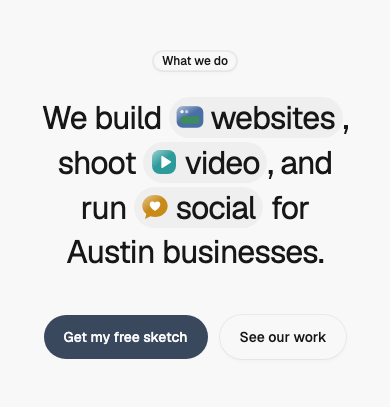
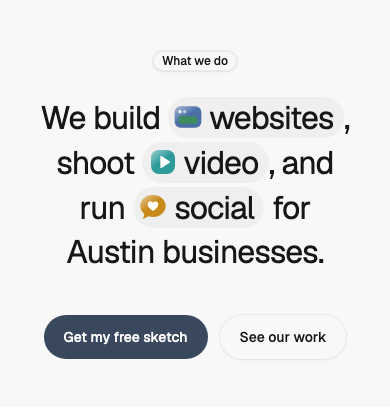
Statement — Inline Pills: a little more room after the word in each pill (pr 0.24em → 0.32em)

diff --git a/patterns/statement/inline-pills/StatementInlinePills.tsx b/patterns/statement/inline-pills/StatementInlinePills.tsx
@@ -48,7 +48,7 @@ const actionsClasses = "mt-10 flex flex-wrap items-center justify-center gap-3";
  * a pill wraps.
  */
 const pillClasses =
-  "relative rounded-full bg-[color-mix(in_srgb,var(--color-fg)_4%,transparent)] py-0 pl-[1.3em] pr-[0.24em] " +
+  "relative rounded-full bg-[color-mix(in_srgb,var(--color-fg)_4%,transparent)] py-0 pl-[1.3em] pr-[0.32em] " +
   "[[data-theme=dark]_&]:bg-[color-mix(in_srgb,var(--color-fg)_8%,transparent)] " +
   "[box-decoration-break:clone] [-webkit-box-decoration-break:clone]";
 /**
